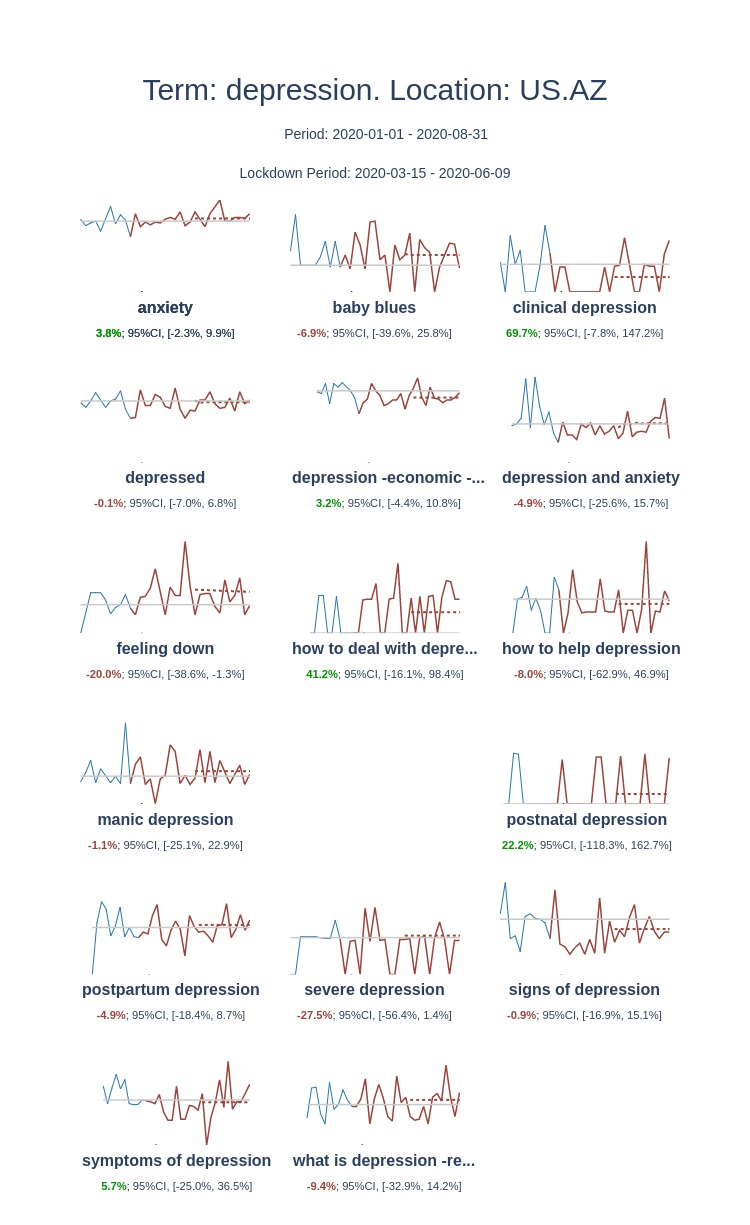
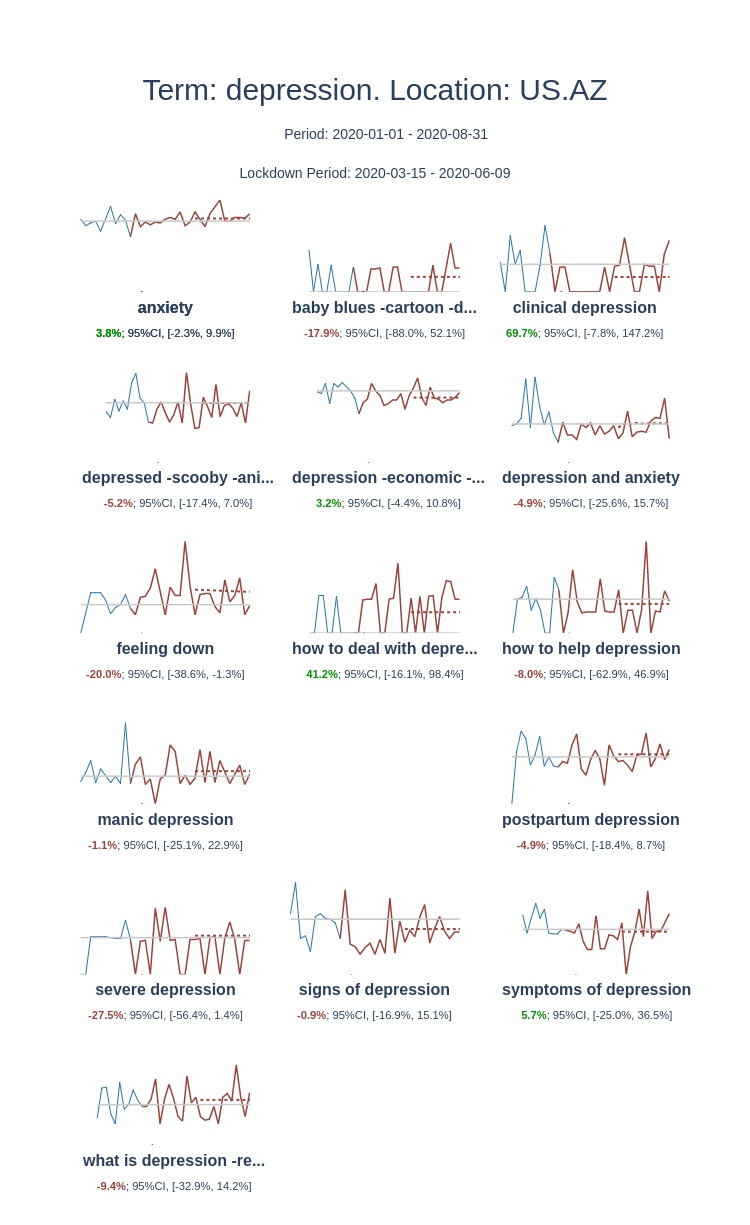
Group terms with less search volumn together

diff --git a/config.py b/config.py
@@ -35,13 +35,13 @@ TRENDS_DATA_GROUPS = {
         'signs of depression', 
         'depression -economic -tropical -great -unemployment -headed -the -recession -2020', 
         'symptoms of depression',
-        'baby blues', 
-        'postnatal depression',
+        'baby blues -cartoon -dolly -comic -comics -bbq -movie -nashville -lyrics -shark -back -bar -hey', 
         'feeling down',
         'depression and anxiety',
         'what is depression -recession -great -economic', 
-        'depressed',
-        'post natal depression',
+        'depressed -scooby -anime -cartoon -wallpaper -backgrounds -wallpapers -cat -dog -fish -cats -dogs',
+        # 'postnatal depression',
+        'postnatal depression + post natal depression',
         'clinical depression',
         'manic depression', 
         'how to help depression',
@@ -77,44 +77,35 @@ TRENDS_DATA_GROUPS = {
     # 'howto': [],
     'helpline': [
         # A:assessment
-        'suicide assessment',
+        'suicide assessment + suicide risk assessment + suicide safety assessment + suicide safety plan app',
         # C:chat
-        'suicide chat', 'suicide club', 'suicide chat room',
+        'suicide chat + suicide chat room + suicide online chat',
+        'suicide club + suicide group',
         # H:help
-        'suicide help', 'suicide helpline', 
-        # 'suicide help resources',
-        'suicide help quotes', 'suicide help near me',
+        'suicide help + suicide help near me', 'suicide helpline', 
         # I:intervention
         'suicide intervention',
         # L:line
         
         # O:online
-        'suicide online chat',
         'suicide hotline', 'suicide hotline number', 'suicide hotline text',
         # P:prevention
-        'suicide prevention', 'suicide prevention text', 'suicide postvention',
+        'suicide prevention + suicide postvention', 'suicide prevention text',
         # Q:questionnaire
         # 'suicide questionnaire',
-        'suicide questions', 'suicide quotes',
-        # R:risk, resources
-        'suicide risk assessment', 'suicide resources',
+        'suicide questions',
+        # R:risk, resources, 
+        'suicide resources + suicide help resources',
         # S:support,safe,solution,sympathy (a,e,i,o,u,y)
-        'suicide support groups', 
-        'suicide support', 'suicide survivor',
-        'suicide survivor quotes',
-        # 'suicide support groups online', 'suicide survivor tattoo', 'suicide survivor support group', 
-        'suicide support line',
-        # 'suicide safety plan app',
-        'suicide safety assessment',
-        'suicide solution', 'suicide sympathy',
+        'suicide support + suicide support groups + suicide support groups online + suicide support line', 
+        'suicide survivor + suicide survivor tattoo + suicide survivor support group',
+        'suicide solution', 'suicide quotes + suicide help quotes + suicide sympathy + suicide survivor quotes',
         # T:text
-        'suicide text line', 'suicide text',
-        # 'suicide text hotline', 'suicide textline',
+        'suicide text line + suicide text + suicide text hotline',
         # Y:yellow
         # 'suicide yellow ribbon',
         # Z:zero
-        'suicide zero',  
-        # 'suicide zero alliance'
+        'suicide zero + suicide zero alliance', 
     ]
 }
 
